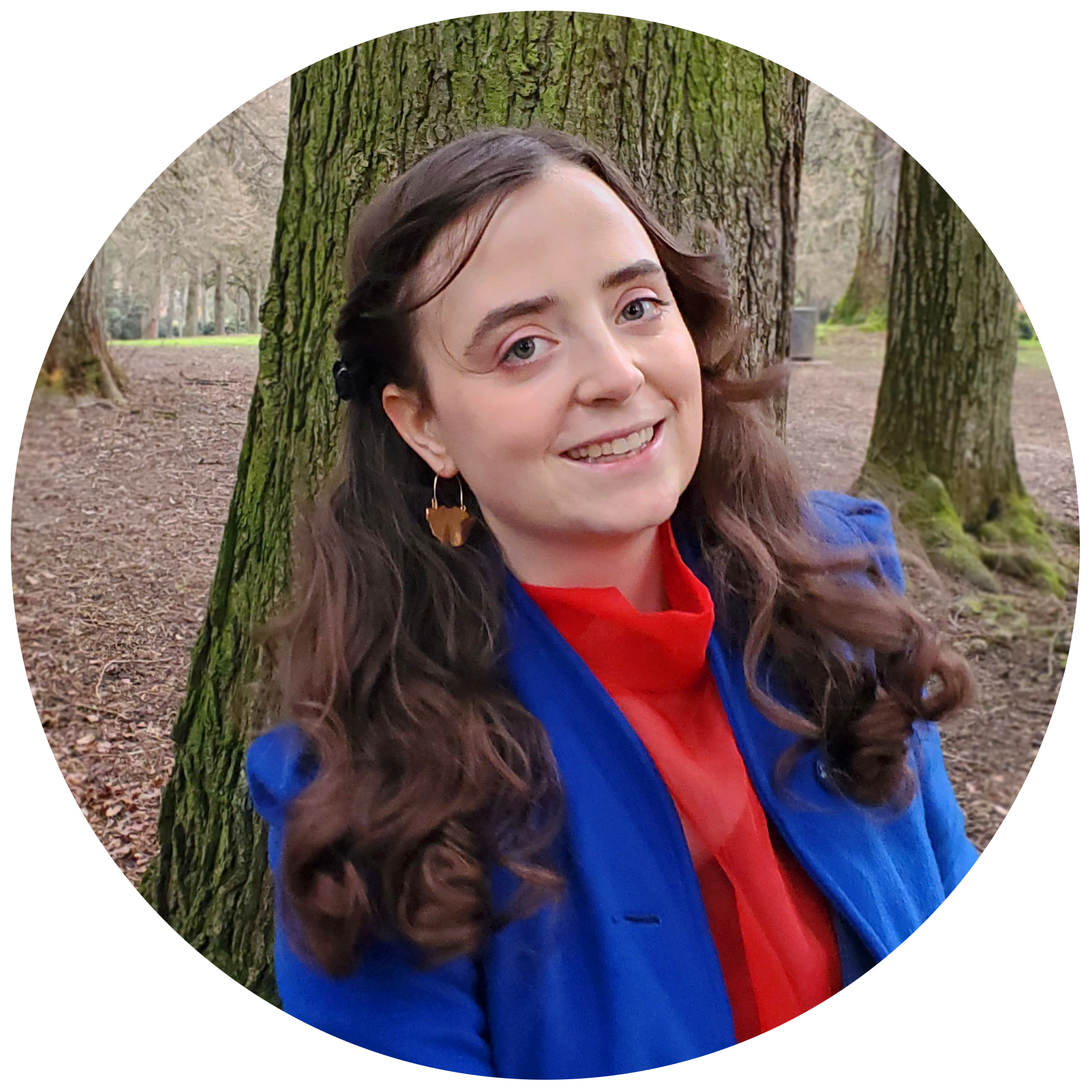
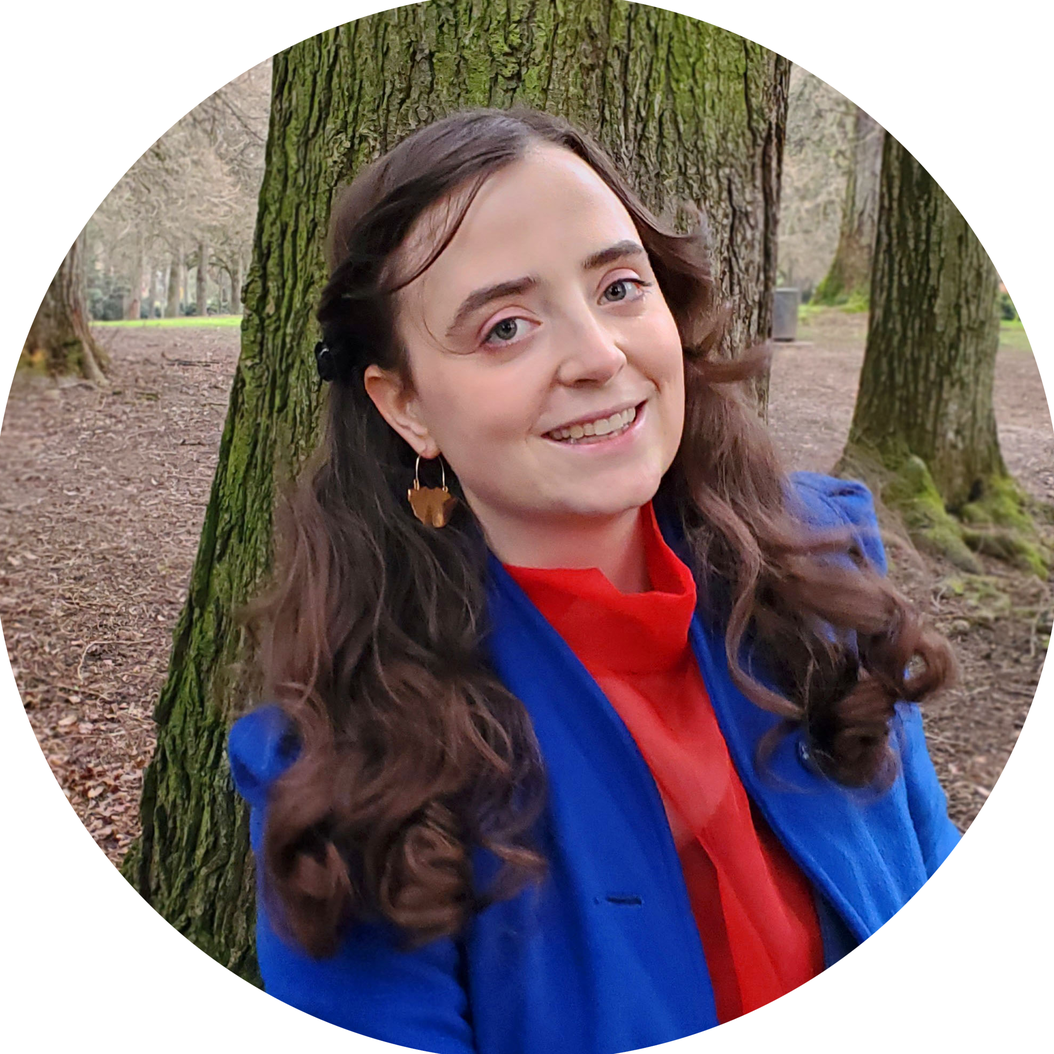
update about secton and add photos

diff --git a/src/components/AboutSection/index.js b/src/components/AboutSection/index.js
@@ -1,22 +1,23 @@
 import React from 'react'
-import {AboutContainer, AboutWrapper, AboutRow, TextWrapper, Heading, Paragraph, Column2, Column1, ImgWrap, Img} from './AboutElements'
+import {AboutContainer, AboutWrapper, AboutRow, TextWrapper, Heading, Paragraph, Column2, Column1, ImgWrap, Img} from './AboutElements';
 
-const AboutSection = () => {
+
+const AboutSection = ({lightBg, id, imgStart, img, alt, lightText, heading, paragraph,darkText}) => {
   return (
     <>
-      <AboutContainer>
+      <AboutContainer lightBg={lightBg} id={id}>
         <AboutWrapper>
-          <AboutRow>
+          <AboutRow imgStart={imgStart}>
             <Column1>
               <TextWrapper>
-                <Heading>Heading</Heading>
-                <Paragraph>Content</Paragraph>
-                {/* <MePhoto></MePhoto> */}
+                <Heading lightText={lightText}>{heading}</Heading>
+                <Paragraph darkText={darkText}>{paragraph}</Paragraph>
               </TextWrapper>
             </Column1>
             <Column2>
               <ImgWrap>
-                <Img />
+                <Img src={img} alt={alt} />
+                {/* <Img2 src={img2}/> */}
               </ImgWrap>
             </Column2>
           </AboutRow>

diff --git a/src/components/AboutSection/Data.js b/src/components/AboutSection/Data.js
@@ -1,0 +1,17 @@
+import myself from '../../assets/img/myself3.jpg';
+import myself2 from '../../assets/img/myself.png';
+
+export const aboutObjOne = {
+  id: 'about',
+  lightBg: false,
+  lightText: true,
+  lightTextDesc: true,
+  heading: 'About Me',
+  paragraph: 'Duis nec metus eu ipsum egestas porttitor dapibus eget dolor. Proin quis urna magna. Aliquam sollicitudin, augue id venenatis consectetur, ipsum lacus feugiat elit, mattis dapibus orci nisi nec nibh. Duis a nisi convallis, suscipit eros id, sollicitudin turpis. Vestibulum sed neque ut erat vestibulum vulputate sit amet euismod ante. Pellentesque pretium at libero quis varius. Ut maximus, mauris ut tempor molestie, ligula arcu porttitor orci, sed laoreet orci dui sit amet sem. Mauris hendrerit velit in tristique semper. Sed bibendum fringilla semper. Aenean tellus erat, hendrerit sit amet ipsum quis, suscipit maximus elit. Donec rutrum mauris quis dui sollicitudin, quis pellentesque turpis pharetra.',
+  imgStart: false, 
+  img: myself2,
+  // img2: myself2,
+  alt: 'a young women (Kaila S.M.) with brown hair smiling outdoors in a park',
+  dark: true,
+  darkText: false
+}

diff --git a/src/components/AboutSection/AboutElements.js b/src/components/AboutSection/AboutElements.js
@@ -1,4 +1,6 @@
 import styled from 'styled-components';
+import myself from '../../assets/img/myself3.jpg';
+import myself2 from '../../assets/img/myself.png';
 
 export const AboutContainer = styled.div`
   color: #fff;
@@ -72,6 +74,23 @@ export const Paragraph = styled.p`
   color: ${({darkText}) => (darkText ? '#010606' : '#fff')};
 `
 
-export const ImgWrap = styled.div``
+export const ImgWrap = styled.div`
+  max-width: 555px;
+  height: 100%;
+`
 
-export const Img = styled.img``
+export const Img = styled.img`
+  width: 80%;
+  border-radius: 50%;
+  border: 10px solid #DC1D1E;
+
+  $:hover {
+    opacity: 100%
+    transition: 0.2s ease-in-out;
+  }
+`
+// export const Img2 = styled.img`
+//   width: 100%;
+//   border-radius: 50%;
+//   border: 10px solid #DC1D1E;
+// `

diff --git a/src/pages/index.js b/src/pages/index.js
@@ -1,5 +1,6 @@
 import React, { useState } from 'react'
 import AboutSection from '../components/AboutSection';
+import { aboutObjOne } from '../components/AboutSection/Data';
 import Navbar from "../components/Navbar";
 import Sidebar from "../components/Sidebar";
 
@@ -15,7 +16,7 @@ const Home = () => {
     <>
       <Sidebar isOpen={isOpen} handleToggle={handleToggle} />
       <Navbar handleToggle={handleToggle} />
-      <AboutSection />
+      <AboutSection {...aboutObjOne}/>
     </>
   )
 }

diff --git a/src/components/Sidebar/SidebarElements.js b/src/components/Sidebar/SidebarElements.js
@@ -59,7 +59,7 @@ export const SidebarLink = styled(LinkS)`
   cursor: pointer;
 
   $:hover {
-    color: #01bf71;
+    color: #DC1D1E;
     transition: 0.2s ease-in-out;
   }
 `;

diff --git a/src/components/Navbar/NavbarElements.js b/src/components/Navbar/NavbarElements.js
@@ -82,6 +82,6 @@ export const NavLinks = styled(LinkS)`
   cursor: pointer; 
 
   &.active {
-    border-bottom: 3px solid #ff4f2b;
+    border-bottom: 3px solid #DC1D1E;
   }
 `

diff --git a/src/App.scss b/src/App.scss
@@ -1,5 +1,5 @@
 body, .navbar {
-  background-color: #7dbd94;
+  background-color:#97AB6D;
 }
 
 .self-photo {
